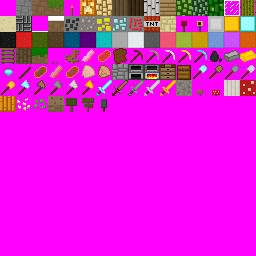
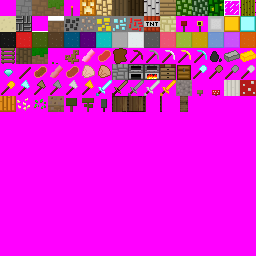
Added WIP doors

Changed region(s): [[0.4375, 0.375, 0.5938, 0.4375], [0.6875, 0.375, 0.75, 0.4375], [0.625, 0.375, 0.6562, 0.4375]]

diff --git a/source/blockUpdaters/door.cpp b/source/blockUpdaters/door.cpp
@@ -1,0 +1,93 @@
+#include "../world.h"
+#include "../general.h"
+#include "../graphics/graphics.h"
+#include "../blockUpdater.h"
+#include <stdlib.h>
+#include "../blockID.h"
+#include "../blocks.h"
+#include "door.h"
+#include "../mobs/hurt.h"
+#include "../mobs/mobHandler.h"
+
+DoorUpdater::DoorUpdater()
+{
+	blockID = DOOR_ITEM;
+	chance = NO_CHANCE;
+}
+
+void DoorUpdater::update(WorldObject* world, int x, int y, bool bg)
+{
+	int &blockXY = bg ? world->bgblocks[x][y] : world->blocks[x][y];
+	int &blockBelowXY = bg ? world->bgblocks[x][y + 1] : world->blocks[x][y + 1];
+	int &blockAboveXY = bg ? world->bgblocks[x][y - 1] : world->blocks[x][y - 1];
+	if (isBlockWalkThrough(blockBelowXY))
+	{
+		blockXY = AIR;
+		createItemMob(x, y, DOOR_ITEM);
+	}
+  else
+  {
+    blockXY = DOOR_OPEN_BOTTOM;
+    blockAboveXY = DOOR_OPEN_TOP;
+  }
+}
+
+void DoorUpdater::chanceUpdate(WorldObject* world, int x, int y, bool bg)
+{
+
+}
+
+
+
+DoorTopOpenUpdater::DoorTopOpenUpdater()
+{
+  blockID = DOOR_OPEN_TOP;
+  chance = NO_CHANCE;
+}
+DoorTopClosedUpdater::DoorTopClosedUpdater()
+{
+  blockID = DOOR_CLOSED_TOP;
+  chance = NO_CHANCE;
+}
+DoorBottomOpenUpdater::DoorBottomOpenUpdater()
+{
+  blockID = DOOR_OPEN_BOTTOM;
+  chance = NO_CHANCE;
+}
+DoorBottomClosedUpdater::DoorBottomClosedUpdater()
+{
+  blockID = DOOR_CLOSED_BOTTOM;
+  chance = NO_CHANCE;
+}
+void DoorTopUpdate(WorldObject* world, int x, int y, bool bg)
+{
+	int &blockXY = bg ? world->bgblocks[x][y] : world->blocks[x][y];
+	int &blockBelowXY = bg ? world->bgblocks[x][y + 1] : world->blocks[x][y + 1];
+	int &blockAboveXY = bg ? world->bgblocks[x][y - 1] : world->blocks[x][y - 1];
+  if (blockBelowXY==AIR)
+    blockXY = AIR;  
+}
+void DoorBottomUpdate(WorldObject* world, int x, int y, bool bg)
+{
+	int &blockXY = bg ? world->bgblocks[x][y] : world->blocks[x][y];
+	int &blockBelowXY = bg ? world->bgblocks[x][y + 1] : world->blocks[x][y + 1];
+	int &blockAboveXY = bg ? world->bgblocks[x][y - 1] : world->blocks[x][y - 1];
+  if (blockAboveXY==AIR)
+    blockXY = AIR;  
+}
+void DoorTopOpenUpdater::update(WorldObject* world, int x, int y, bool bg)
+{
+  DoorTopUpdate(world,x,y,bg);
+}
+void DoorTopClosedUpdater::update(WorldObject* world, int x, int y, bool bg)
+{
+  DoorTopUpdate(world,x,y,bg);
+}
+void DoorBottomOpenUpdater::update(WorldObject* world, int x, int y, bool bg)
+{
+  DoorBottomUpdate(world,x,y,bg);
+}
+void DoorBottomClosedUpdater::update(WorldObject* world,int x, int y, bool bg)
+{
+  DoorBottomUpdate(world,x,y,bg);
+}

diff --git a/source/blocks.cpp b/source/blocks.cpp
@@ -15,7 +15,7 @@
 #include <stdarg.h>
 #define sizeOfArray(x) (sizeof(x)/sizeof(x[0]))
 
-int walkThroughBlocks[] = {AIR, YELLOW_FLOWER, RED_FLOWER, SNOW_TOP, TORCH, LADDER, SHRUB, TALL_GRASS, MUSHROOM_BROWN, MUSHROOM_RED, SAPLING_JUNGLE, SAPLING_OAK, SAPLING_SPRUCE};
+int walkThroughBlocks[] = {AIR, YELLOW_FLOWER, RED_FLOWER, SNOW_TOP, TORCH, LADDER, SHRUB, TALL_GRASS, MUSHROOM_BROWN, MUSHROOM_RED, SAPLING_JUNGLE, SAPLING_OAK, SAPLING_SPRUCE,DOOR_OPEN_TOP,DOOR_OPEN_BOTTOM};
 int renderBright[] = {AIR, LOG_OAK, LOG_SPRUCE, LOG_BIRCH, LEAVES_OAK, YELLOW_FLOWER, RED_FLOWER, CACTUS, TORCH, LEAVES_SPRUCE, GLASS, SHRUB, TALL_GRASS, MUSHROOM_RED, MUSHROOM_BROWN, PUMPKIN, SAPLING_JUNGLE, SAPLING_OAK, SAPLING_SPRUCE};
 int lightSourceBlocks[] = {TORCH, PUMPKIN_LIGHT, GLOWSTONE, FURNACE_LIT};
 int lightSourceBlocksAmmount[sizeOfArray(lightSourceBlocks)] = {1, 0, 0, 0}; // The Number is equal to 15 - minecraftlightemitvalue
@@ -29,6 +29,8 @@ int hardness[NUM_BLOCKS]; //Slot is ID number, negative number means tool
 int blockType[NUM_BLOCKS]; //Type of block/tool
 int spriteBlocks[NUM_SPRITE_BLOCKS] = {TORCH, GLASS, SNOW_TOP, LADDER, MUSHROOM_BROWN, MUSHROOM_RED, SHRUB, TALL_GRASS, FLOWER_RED, FLOWER_YELLOW, SAPLING_JUNGLE, SAPLING_OAK, SAPLING_SPRUCE, CHEST};
 int foodItems[] = {PORKCHOP_RAW, BEEF_RAW, FLESH, BEEF_COOKED, PORKCHOP_COOKED, CHICKEN_RAW, CHICKEN_COOKED};
+int blockItems[] = {DOOR_ITEM};
+
 
 void setArray(int * array, int setValue, int numOfItems, ...)
 {
@@ -194,6 +196,14 @@ bool item(int blockID)
 	for (i = 0; (unsigned) i < sizeOfArray(items); ++i)
 		if (items[i] == blockID) return true;
 	return false;
+}
+
+bool blockItem(int blockID)
+{
+  int i;
+  for (i = 0; (unsigned) i < sizeOfArray(blockItems); ++i)
+    if (blockItems[i] == blockID) return true;
+  return false;
 }
 
 bool alwaysRenderBright(int blockID)
@@ -403,6 +413,12 @@ int genericBlock(int blockID)
 		case DIAMOND_ORE:
 			return DIAMOND;
 			break;
+    case DOOR_OPEN_TOP:
+    case DOOR_OPEN_BOTTOM:
+    case DOOR_CLOSED_TOP:
+    case DOOR_CLOSED_BOTTOM:
+      return DOOR_ITEM;
+      break;
 	}
 	return blockID;
 }

diff --git a/source/blockPages.cpp b/source/blockPages.cpp
@@ -12,7 +12,7 @@
 const int BLOCK_PAGES [NUM_BLOCK_PAGES][NUM_INV_SPACES] = {
 	{BLACK_WOOL, RED_WOOL, DARK_GREEN_WOOL, BROWN_WOOL, BlUE_WOOL, PURPLE_WOOL, CYAN_WOOL, GRAY_WOOL, WHITE_WOOL, DARK_GRAY_WOOL, PINK_WOOL, LIGHT_GREEN_WOOL, YELLOW_WOOL, LIGHT_BLUE_WOOL, MAGENTA_WOOL, ORANGE_WOOL},
 	{DIRT, GRASS, SNOW_GRASS, MYCELIUM, STONE, COBBLESTONE, BEDROCK, GRAVEL, SAND, SANDSTONE, LOG_OAK, LOG_SPRUCE, LOG_BIRCH, JUNGLE_WOOD, PLANKS_WOOD, LEAVES_OAK, LEAVES_SPRUCE, LEAVES_JUNGLE},
-	{CRAFTING_TABLE, LADDER, CHEST, STICK, FURNACE, FURNACE_LIT, GLASS, TNT, TORCH},
+	{CRAFTING_TABLE, LADDER, CHEST, STICK, FURNACE, FURNACE_LIT, GLASS, TNT, TORCH, DOOR_ITEM},
 	{CACTUS, TALL_GRASS, SHRUB, SAPLING_OAK, SAPLING_JUNGLE, SAPLING_SPRUCE, FLOWER_RED, FLOWER_YELLOW, MUSHROOM_RED, MUSHROOM_BROWN, LEAVES_OAK, LEAVES_JUNGLE, LEAVES_SPRUCE, MUSHROOM_STEM, MUSHROOM_TOP, PUMPKIN, PUMPKIN_LIGHT, SEEDS_PUMPKIN, SEEDS_WHEAT},
 	{COAL_ORE, IRON_ORE, GOLD_ORE, DIAMOND_ORE, REDSTONE_ORE, INGOT_GOLD, INGOT_IRON, COAL, DIAMOND, IRON_BLOCK, GOLD_BLOCK, DIAMOND_BLOCK},
 	{PICKAXE_DIAMOND, PICKAXE_GOLD, PICKAXE_IRON, PICKAXE_STONE, PICKAXE_WOOD, AXE_DIAMOND, AXE_GOLD, AXE_IRON, AXE_STONE, AXE_WOOD, SWORD_DIAMOND, SWORD_GOLD, SWORD_IRON, SWORD_STONE, SWORD_WOOD, SHOVEL_DIAMOND, SHOVEL_GOLD, SHOVEL_IRON, SHOVEL_STONE, SHOVEL_WOOD}

diff --git a/source/blockUpdaters/door.h b/source/blockUpdaters/door.h
@@ -1,0 +1,36 @@
+#pragma once
+#include "../world.h"
+#include "../blockUpdater.h"
+
+class DoorUpdater : public BlockUpdater
+{
+public:
+	DoorUpdater();
+	virtual void update(WorldObject* world, int x, int y, bool bg);
+	virtual void chanceUpdate(WorldObject* world, int x, int y, bool bg);
+};
+
+class DoorTopOpenUpdater : public BlockUpdater
+{
+  public:
+   DoorTopOpenUpdater();
+   virtual void update(WorldObject* world, int x, int y, bool bg);
+};
+class DoorTopClosedUpdater : public BlockUpdater
+{
+  public:
+   DoorTopClosedUpdater();
+   virtual void update(WorldObject* world, int x, int y, bool bg);
+};
+class DoorBottomOpenUpdater : public BlockUpdater
+{
+  public:
+   DoorBottomOpenUpdater();
+   virtual void update(WorldObject* world, int x, int y, bool bg);
+};
+class DoorBottomClosedUpdater : public BlockUpdater
+{
+  public:
+   DoorBottomClosedUpdater();
+   virtual void update(WorldObject* world, int x, int y, bool bg);
+};

diff --git a/source/blockUpdater.cpp b/source/blockUpdater.cpp
@@ -25,6 +25,7 @@
 #include "blockUpdaters/spruceSapling.h"
 #include "blockUpdaters/jungleSapling.h"
 #include "blockUpdaters/ladder.h"
+#include "blockUpdaters/door.h"
 
 BlockUpdater* blockUpdaters[50];
 int numBlockUpdaters;
@@ -66,6 +67,11 @@ void proceduralBlockUpdateInit()
 	blockUpdaters[numBlockUpdaters++] = new JungleSaplingUpdater;
 	blockUpdaters[numBlockUpdaters++] = new SpruceSaplingUpdater;
 	blockUpdaters[numBlockUpdaters++] = new LadderUpdater;
+  blockUpdaters[numBlockUpdaters++] = new DoorUpdater;
+  blockUpdaters[numBlockUpdaters++] = new DoorTopClosedUpdater;
+  blockUpdaters[numBlockUpdaters++] = new DoorTopOpenUpdater;
+  blockUpdaters[numBlockUpdaters++] = new DoorBottomClosedUpdater;
+  blockUpdaters[numBlockUpdaters++] = new DoorBottomOpenUpdater;
 }
 
 void proceduralBlockUpdateCheck(WorldObject* world, int x, int y)

diff --git a/source/chests.cpp b/source/chests.cpp
@@ -25,14 +25,14 @@ void createChest(WorldObject *world, int x, int y, bool bg)
 	if (bg)
 	{
 		world->bgblocks[x][y] = CHEST;
-		world->data[x][y] &= 0x0000FFFF; //Clears left 16 bits
-		chestID <<= 16; //Shift left 16 bits
+		world->data[x][y] &= 0x0000FFFF; //Clears higher 16 bits
+		chestID <<= 16; //Shift higher 16 bits
 		world->data[x][y] |= chestID;
 	}
 	else
 	{
 		world->blocks[x][y] = CHEST;
-		world->data[x][y] &= 0xFFFF0000; //Clears right 16 bits
+		world->data[x][y] &= 0xFFFF0000; //Clears lower 16 bits
 		world->data[x][y] |= chestID;
 	}
 	world->chestInUse[chestID] = true;

diff --git a/source/mining.cpp b/source/mining.cpp
@@ -62,7 +62,7 @@ void destroyBlock(WorldObject *world, int x, int y, bool bg)
 void placeBlock(WorldObject *world, int x, int y, bool bg)
 {
 	int blockID = getBlockID(getSelectedSlot());
-	if (item(blockID))
+	if (item(blockID) && !blockItem(blockID))
 		return;
 	if (subInventory(blockID, 1))
 	{

diff --git a/source/blockID.h b/source/blockID.h
@@ -140,3 +140,9 @@
 #define SAPLING_OAK 100
 #define SAPLING_JUNGLE 101
 #define SAPLING_SPRUCE 102
+#define DOOR_OPEN_TOP 103
+#define DOOR_OPEN_BOTTOM 104
+#define DOOR_CLOSED_TOP 105
+#define DOOR_CLOSED_BOTTOM 106
+#define DOOR_ITEM 107
+

diff --git a/source/blockName.cpp b/source/blockName.cpp
@@ -318,6 +318,9 @@ const char *getName(int blockID)
 		case SAPLING_JUNGLE:
 			name = "Jungle Sapling";
 			break;
+    case DOOR_ITEM:
+      name = "Door";
+      break;
 	}
 	return name;
 }

diff --git a/source/blocks.h b/source/blocks.h
@@ -23,3 +23,4 @@ bool isSpriteBlock(int block);
 int getSpriteIndex(int block);
 bool isGrassBlock(int blockID);
 SoundAudio getBlockAudio(int blockID);
+bool blockItem(int blockID);
